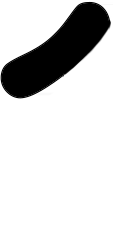
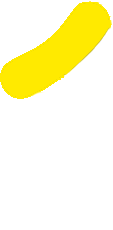
shaded numbers to yellow

Changed region(s): [[0.0, 0.0, 1.0, 0.4565]]

diff --git a/screens/Games/DadBatak.js b/screens/Games/DadBatak.js
@@ -24,6 +24,10 @@ class DadBatak extends Component {
         this.props.navigation.navigate('dadbataktanbu2')
     }
 
+    gotoTanbu3 = () => {
+        this.props.navigation.navigate('dadbataktanbu3')
+    }
+
     render() {
         return (
             <ImageBackground
@@ -56,7 +60,7 @@ class DadBatak extends Component {
                     </TouchableOpacity>
                 </View>
                 <View style={styles.bang3Style}>
-                <TouchableOpacity>
+                <TouchableOpacity onPress={this.gotoTanbu3}>
                         <Image
                             source={Bang3Icon}
                             style={styles.image}
